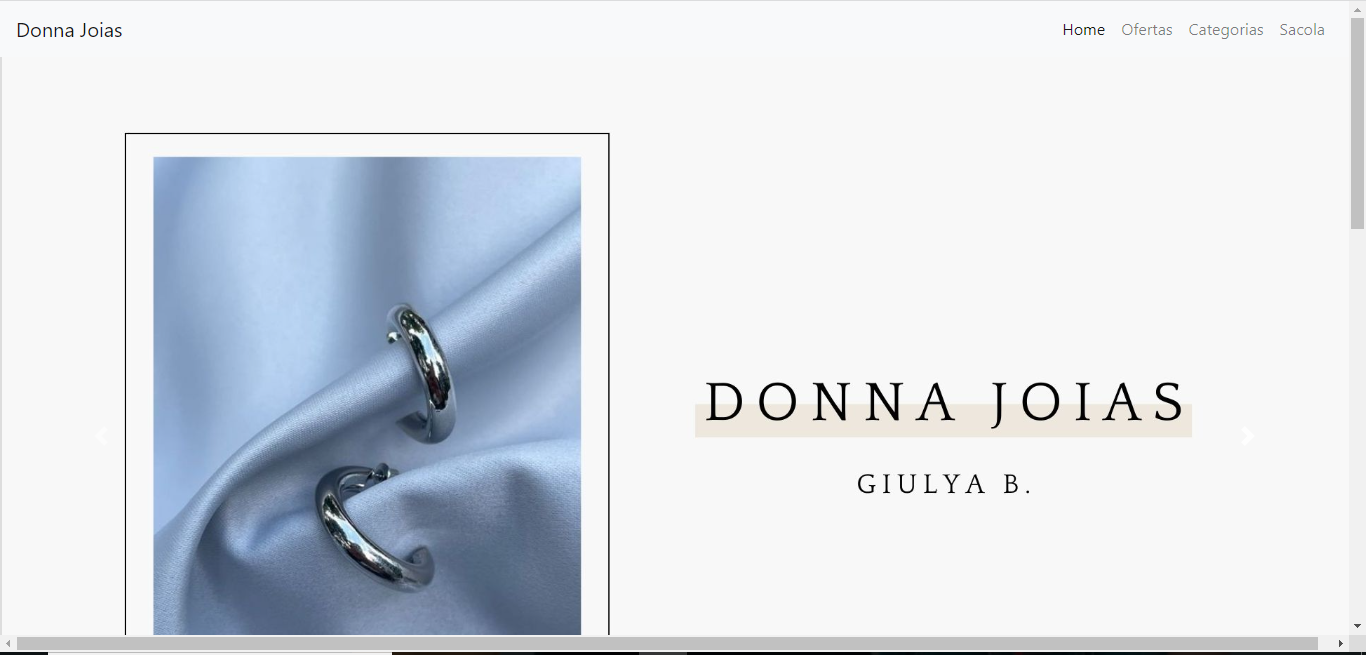
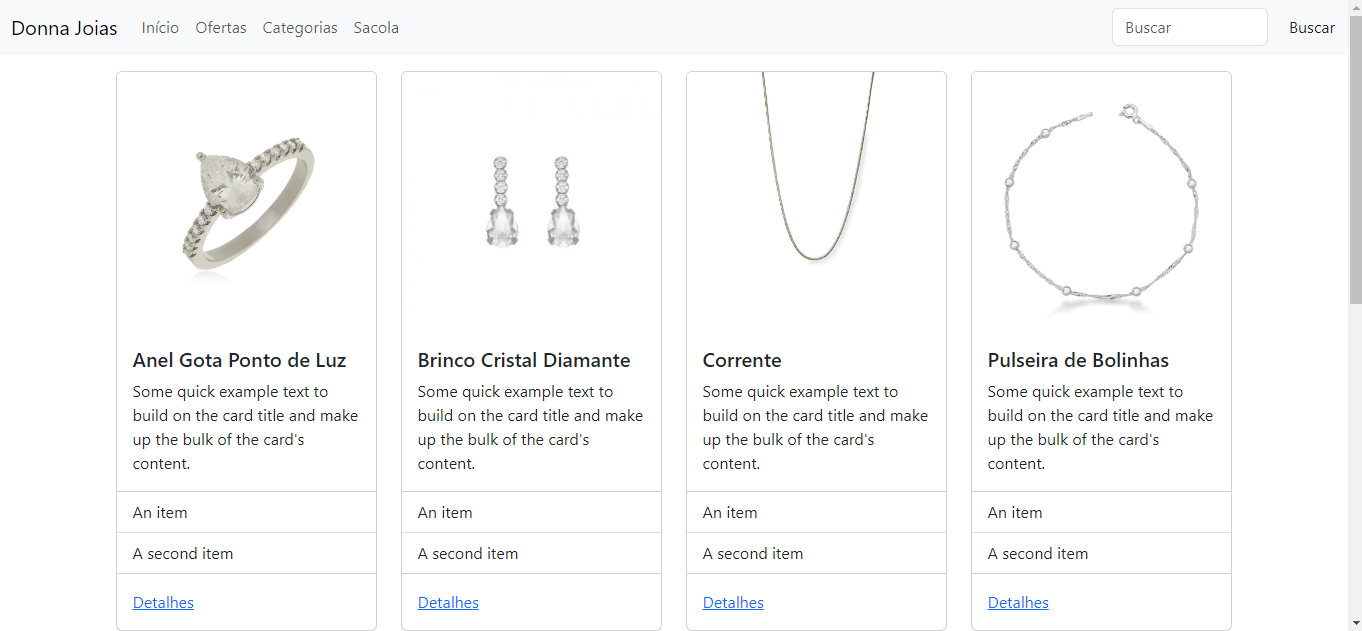
correcao js e index

diff --git a/componente.js b/componente.js
@@ -1,47 +1,81 @@
 class Componente extends HTMLElement {
     constructor() {
-      // Always call super first in constructor
-      super();
+        super();
     }
-  
+
     connectedCallback() {
-      const div = document.createElement("div");
-      div.className = "card mb-3 mt-3";
-      div.innerHTML = `
-        <div class="row">
-            <div class="card" style="width: 17rem;">
-                    <img src="images/logo.jpg"" class="card-img-top" alt="...">
-                    <div class="card-body">
-                        <h5 class="card-title">Card title</h5>
-                        <p class="card-text">Some quick example text to build on the card title and make up the bulk of the card's content.</p>
-                    </div>
-                </div> 
-            <div class="card" style="width: 17rem;">
-                    <img src="images/aneis.jpg" class="card-img-top" alt="...">
-                    <div class="card-body">
-                        <h5 class="card-title">Card title</h5>
-                        <p class="card-text">Some quick example text to build on the card title and make up the bulk of the card's content.</p>
-                    </div>
-                </div>
-            <div class="card" style="width: 17rem;">
-                    <img src="images/brincos.jpg" class="card-img-top" alt="...">
-                    <div class="card-body">
-                        <h5 class="card-title">Card title</h5>
-                        <p class="card-text">Some quick example text to build on the card title and make up the bulk of the card's content.</p>
+        const div = document.createElement("div");
+        div.className = "card-deck";
+        div.innerHTML = `
+            <div class="row row-cols-1 row-cols-md-2 row-cols-lg-4 g-4">
+                <div class="col">
+                    <div class="card mb-3 mt-3">
+                        <img src="images/aneis/anel-gota-ponto-de-luz.png" class="card-img-top" alt="Donna Joias">
+                        <div class="card-body">
+                            <h5 class="card-title">Anel Gota Ponto de Luz</h5>
+                            <p class="card-text">Some quick example text to build on the card title and make up the bulk of the card's content.</p>
+                        </div>
+                        <ul class="list-group list-group-flush">
+                            <li class="list-group-item">An item</li>
+                            <li class="list-group-item">A second item</li>
+                        </ul>
+                        <div class="card-body">
+                            <a href="sacola.html" class="Detalhes">Detalhes</a>
+                        </div>
                     </div>
                 </div>
-            <div class="card" style="width: 17rem;">
-                    <img src="images/colares.jpg" class="card-img-top" alt="...">
-                    <div class="card-body">
-                        <h5 class="card-title">Card title</h5>
-                        <p class="card-text">Some quick example text to build on the card title and make up the bulk of the card's content.</p>
+                <div class="col">
+                    <div class="card mb-3 mt-3">
+                        <img src="images/brincos/brinco-cristal-diamantado.jpg" class="card-img-top" alt="Donna Joias">
+                        <div class="card-body">
+                            <h5 class="card-title">Brinco Cristal Diamante</h5>
+                            <p class="card-text">Some quick example text to build on the card title and make up the bulk of the card's content.</p>
+                        </div>
+                        <ul class="list-group list-group-flush">
+                            <li class="list-group-item">An item</li>
+                            <li class="list-group-item">A second item</li>
+                        </ul>
+                        <div class="card-body">
+                            <a href="sacola.html" class="Detalhes">Detalhes</a>
+                        </div>
                     </div>
                 </div>
-        </div>
-      `;
-      this.appendChild(div);
+                <div class="col">
+                    <div class="card mb-3 mt-3">
+                        <img src="images/colares/corrente.jpg" class="card-img-top" alt="Donna Joias">
+                        <div class="card-body">
+                            <h5 class="card-title">Corrente</h5>
+                            <p class="card-text">Some quick example text to build on the card title and make up the bulk of the card's content.</p>
+                        </div>
+                        <ul class="list-group list-group-flush">
+                            <li class="list-group-item">An item</li>
+                            <li class="list-group-item">A second item</li>
+                        </ul>
+                        <div class="card-body">
+                            <a href="sacola.html" class="Detalhes">Detalhes</a>
+                        </div>
+                    </div>
+                </div>
+                <div class="col">
+                    <div class="card mb-3 mt-3">
+                        <img src="images/pulseiras/pulseira-bolinhas.png" class="card-img-top" alt="Donna Joias">
+                        <div class="card-body">
+                            <h5 class="card-title">Pulseira de Bolinhas</h5>
+                            <p class="card-text">Some quick example text to build on the card title and make up the bulk of the card's content.</p>
+                        </div>
+                        <ul class="list-group list-group-flush">
+                            <li class="list-group-item">An item</li>
+                            <li class="list-group-item">A second item</li>
+                        </ul>
+                        <div class="card-body">
+                            <a href="sacola.html" class="Detalhes">Detalhes</a>
+                        </div>
+                    </div>
+                </div>
+            </div>
+        `;
+        this.appendChild(div);
     }
-  
 }
-  
+
 customElements.define("componente-novo", Componente);

diff --git a/index.html b/index.html
@@ -1,0 +1,86 @@
+<!DOCTYPE html>
+<html lang="en">
+<head>
+  <meta charset="UTF-8">
+  <meta name="viewport" content="width=device-width, initial-scale=1.0">
+  <title>DONNA JOIAS</title>
+  <link href="https://cdn.jsdelivr.net/npm/bootstrap@5.3.3/dist/css/bootstrap.min.css" rel="stylesheet"
+    integrity="sha384-QWTKZyjpPEjISv5WaRU9OFeRpok6YctnYmDr5pNlyT2bRjXh0JMhjY6hW+ALEwIH" crossorigin="anonymous">
+</head>
+
+<body>
+  <!--Navbar-->
+  <nav class="navbar navbar-expand-lg bg-body-tertiary">
+    <div class="container-fluid">
+      <a class="navbar-brand" href="#">Donna Joias</a>
+      <button class="navbar-toggler" type="button" data-bs-toggle="collapse" data-bs-target="#navbarNav" aria-controls="navbarNav" aria-expanded="false" aria-label="Toggle navigation">
+        <span class="navbar-toggler-icon"></span>
+      </button>
+      <div class="collapse navbar-collapse" id="navbarNav">
+        <ul class="navbar-nav">
+          <li class="nav-item">
+            <a class="nav-link" href="teste.html">Início</a>
+          </li>
+          <li class="nav-item">
+            <a class="nav-link" href="ofertas.html">Ofertas</a>
+          </li>
+          <li class="nav-item">
+            <a class="nav-link" href="categorias.html">Categorias</a>
+          </li>
+          <li class="nav-item">
+            <a class="nav-link" href="sacola.html">Sacola</a>
+          </li>
+        </ul>
+      </div>
+    </div>
+    <form class="d-flex" role="search">
+      <input class="form-control me-2" type="search" placeholder="Buscar" aria-label="Buscar">
+      <button class="btn btn-outline" type="submit">Buscar</button>
+    </form>
+  </nav>
+
+  <div class="container">
+    <div class="row">
+      <div class="col">
+        <componente-novo />
+      </div>
+    </div>
+
+    <div id="carousel" class="carousel slide" data-ride="carousel">
+      <div class="carousel-inner">
+        <div class="carousel-item active">
+          <img class="d-block w-100" src="images/logo.jpg" alt="Donna Joias">
+        </div>
+        <div class="carousel-item">
+          <img class="d-block w-100" src="images/aneis.jpg" alt="Aneis">
+        </div>
+        <div class="carousel-item">
+          <img class="d-block w-100" src="images/brincos.jpg" alt="Brincos">
+        </div>
+        <div class="carousel-item">
+          <img class="d-block w-100" src="images/colares.jpg" alt="Colares">
+        </div>
+      </div>
+      <a class="carousel-control-prev" href="#carouselE" role="button" data-slide="prev">
+        <span class="carousel-control-prev-icon" aria-hidden="true"></span>
+        <span class="sr-only"></span>
+      </a>
+      <a class="carousel-control-next" href="#carousel" role="button" data-slide="next">
+        <span class="carousel-control-next-icon" aria-hidden="true"></span>
+        <span class="sr-only"></span>
+      </a>
+    </div>
+
+    <!-- Footer -->
+    <footer>
+      <div class="container">
+          <p>&copy; 2023 Todos os direitos reservados.</p>
+      </div>
+    </footer>
+
+  <script src="componente.js"></script>
+  <script src="https://code.jquery.com/jquery-3.3.1.slim.min.js" integrity="sha384-q8i/X+965DzO0rT7abK41JStQIAqVgRVzpbzo5smXKp4YfRvH+8abtTE1Pi6jizo" crossorigin="anonymous"></script>
+  <script src="https://cdnjs.cloudflare.com/ajax/libs/popper.js/1.14.3/umd/popper.min.js" integrity="sha384-ZMP7rVo3mIykV+2+9J3UJ46jBk0WLaUAdn689aCwoqbBJiSnjAK/l8WvCWPIPm49" crossorigin="anonymous"></script>
+  <script src="https://stackpath.bootstrapcdn.com/bootstrap/4.1.3/js/bootstrap.min.js" integrity="sha384-ChfqqxuZUCnJSK3+MXmPNIyE6ZbWh2IMqE241rYiqJxyMiZ6OW/JmZQ5stwEULTy" crossorigin="anonymous"></script>
+</body>
+</html>
